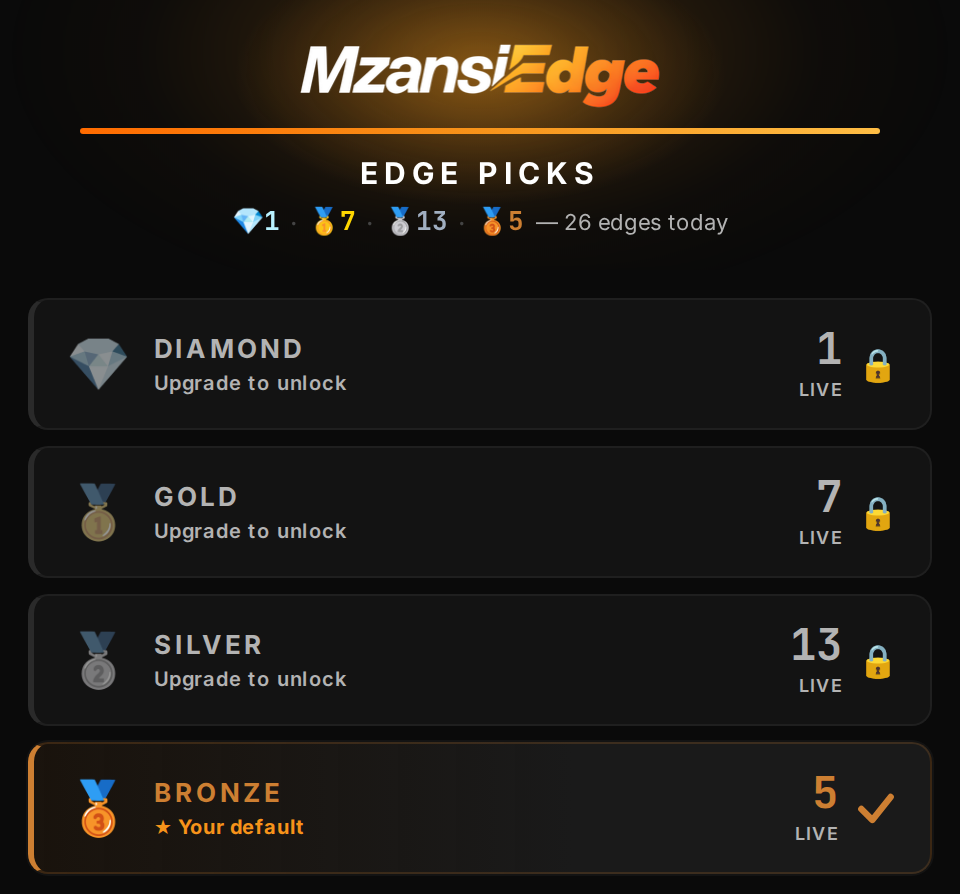
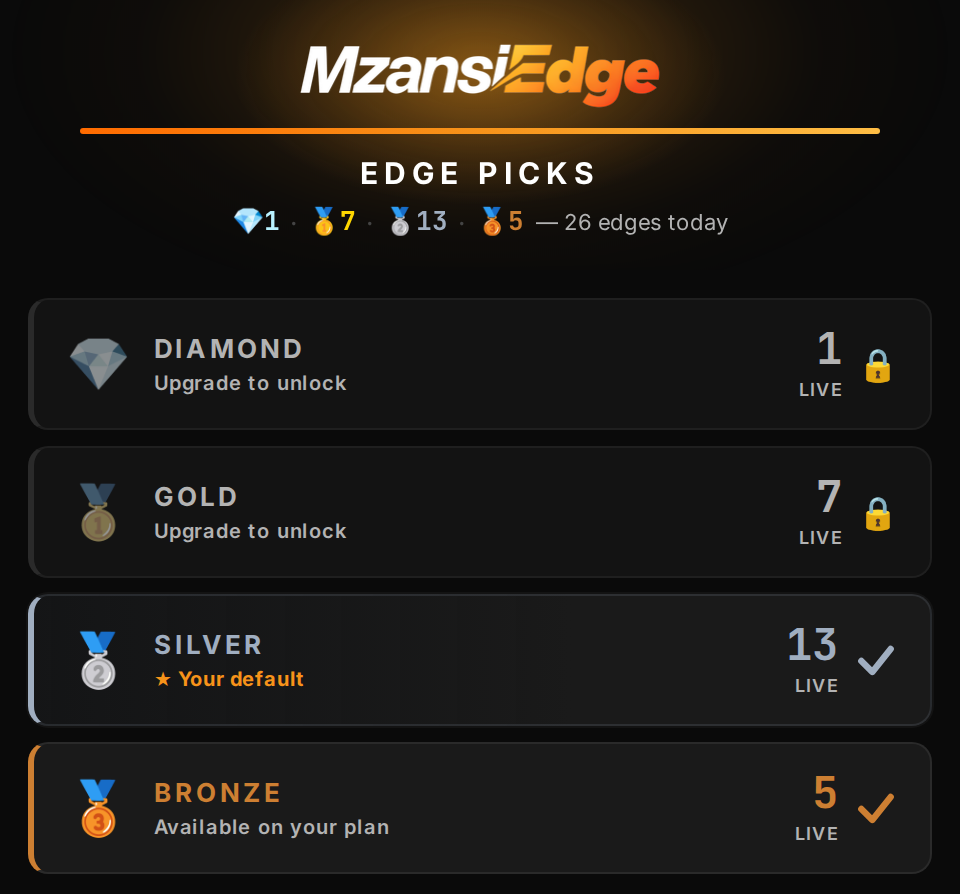
fix(tier-gate): unlock Silver tier index nav for Bronze users (FIX-BRONZE-SILVER-ACCESS-01 AC-5)
edge_picks_index_tier_locked() was returning True for bronze→silver because
the rank-based fallback (silver rank 3 < bronze rank 4 → True) fired even
though get_edge_access_level() returned "full". Added early return
`if access_level == "full": return False` before the rank check.

This completes FIX-BRONZE-SILVER-ACCESS-01: the tier navigation index now
correctly shows Silver as "Your default" (checkmark) for Bronze users
instead of "Upgrade to unlock" (lock icon).

AC-5 regression guard: TestBronzeSilverIndexNotLocked (5 tests) in
tests/contracts/test_bronze_silver_access.py.

Updated test_locked_tier_button_routes_to_upgrade to use
edge_picks_index_tier_locked() as the gate predicate instead of the old
rank-only check which never accounted for full-access cross-tier cases.

Fixed test_canonical_lane_discipline::test_stdin_mode: the test was not
setting ALLOW_CANONICAL_MIX=0 explicitly, so when run inside the pre-commit
hook (where ALLOW_CANONICAL_MIX=1 is in the env) the subprocess inherited
the override and incorrectly returned 0 instead of 1.

Canonical PNG updates (ALLOW_CANONICAL_MIX — intentional curatorial update,
reviewed visually):
- edge_picks_index_bronze.png: Silver row now shows checkmark not lock
- edge_picks_index_empty.png: Silver row shows checkmark on empty state

diff --git a/tests/contracts/test_bronze_silver_access.py b/tests/contracts/test_bronze_silver_access.py
@@ -202,3 +202,44 @@ class TestBronzeDailyCapIncludesSilver:
             assert remaining == 999
         finally:
             os.unlink(db_path)
+
+
+class TestBronzeSilverIndexNotLocked:
+    """AC-5 (FIX-BRONZE-SILVER-ACCESS-01): tier index must NOT show Silver as locked for Bronze."""
+
+    def test_bronze_silver_index_not_locked(self):
+        """edge_picks_index_tier_locked must return False for bronze→silver (full access)."""
+        from card_data import edge_picks_index_tier_locked
+
+        result = edge_picks_index_tier_locked("bronze", "silver")
+        assert result is False, (
+            f"bronze→silver should NOT be locked in the tier index (full access). Got {result!r}. "
+            "FIX-BRONZE-SILVER-ACCESS-01 regression."
+        )
+
+    def test_bronze_gold_index_still_locked(self):
+        """Bronze→Gold (blurred) must remain locked in the tier index."""
+        from card_data import edge_picks_index_tier_locked
+
+        assert edge_picks_index_tier_locked("bronze", "gold") is True
+
+    def test_bronze_diamond_index_still_locked(self):
+        """Bronze→Diamond (locked) must remain locked in the tier index."""
+        from card_data import edge_picks_index_tier_locked
+
+        assert edge_picks_index_tier_locked("bronze", "diamond") is True
+
+    def test_gold_diamond_index_still_locked(self):
+        """Gold→Diamond (locked) must remain locked in the tier index."""
+        from card_data import edge_picks_index_tier_locked
+
+        assert edge_picks_index_tier_locked("gold", "diamond") is True
+
+    def test_diamond_all_not_locked(self):
+        """Diamond user sees all tiers as accessible."""
+        from card_data import edge_picks_index_tier_locked
+
+        for tier in ("diamond", "gold", "silver", "bronze"):
+            assert edge_picks_index_tier_locked("diamond", tier) is False, (
+                f"diamond→{tier} should not be locked"
+            )

diff --git a/card_data.py b/card_data.py
@@ -559,9 +559,9 @@ def _normalise_tier_key(raw: object, default: str = "bronze") -> str:
 def edge_picks_index_tier_locked(user_tier: str, edge_tier: str) -> bool:
     """Return whether the index row should route through upgrade.
 
-    The list/detail surface can expose partial or blurred higher-tier previews.
-    The index is a tier entry menu, so tiers above the user's plan route to the
-    upsell even when the underlying list gate classifies them as previewable.
+    Full access (e.g. Bronze→Silver after FIX-BRONZE-SILVER-ACCESS-01) is never
+    locked — the tier is shown as accessible in the index.  Blurred/partial tiers
+    above the user's plan still route to upsell via the rank check.
     """
     import tier_gate
 
@@ -570,6 +570,8 @@ def edge_picks_index_tier_locked(user_tier: str, edge_tier: str) -> bool:
     access_level = tier_gate.get_edge_access_level(user_key, edge_key)
     if access_level == "locked":
         return True
+    if access_level == "full":
+        return False
     return _TIER_META[edge_key]["rank"] < _TIER_META[user_key]["rank"]
 
 

diff --git a/tests/contracts/test_locked_tier_button_routes_to_upgrade.py b/tests/contracts/test_locked_tier_button_routes_to_upgrade.py
@@ -3,9 +3,9 @@ from __future__ import annotations
 import pytest
 
 from bot import _EDGE_PICKS_INDEX_TIERS, _build_index_markup
+from card_data import edge_picks_index_tier_locked
 
 
-PLAN_RANK = {"diamond": 0, "gold": 1, "silver": 2, "bronze": 3}
 COUNTS = {"diamond": 1, "gold": 2, "silver": 3, "bronze": 4}
 
 
@@ -25,7 +25,7 @@ def test_locked_tier_buttons_route_to_upgrade(
     row_index = list(_EDGE_PICKS_INDEX_TIERS).index(edge_tier)
     callback_data = markup.inline_keyboard[row_index][0].callback_data
 
-    if PLAN_RANK[edge_tier] < PLAN_RANK[user_tier]:
+    if edge_picks_index_tier_locked(user_tier, edge_tier):
         assert callback_data == f"hot:upgrade:tier:{edge_tier}"
     else:
         assert callback_data == f"hot:tier:{edge_tier}"

diff --git a/tests/contracts/test_canonical_lane_discipline.py b/tests/contracts/test_canonical_lane_discipline.py
@@ -119,12 +119,15 @@ class TestCanonicalLaneCheck:
         assert "ALLOW_CANONICAL_MIX=1" in result.stderr
 
     def test_stdin_mode(self):
-        # Mixed staging via stdin.
+        # Mixed staging via stdin — must reject regardless of caller env.
+        env = os.environ.copy()
+        env["ALLOW_CANONICAL_MIX"] = "0"
         result = subprocess.run(
             ["bash", str(CHECK_SCRIPT), "-"],
             input="README.md\nstatic/qa-gallery/canonical/foo.png\n",
             capture_output=True,
             text=True,
+            env=env,
             cwd=str(REPO_ROOT),
             timeout=10,
         )
